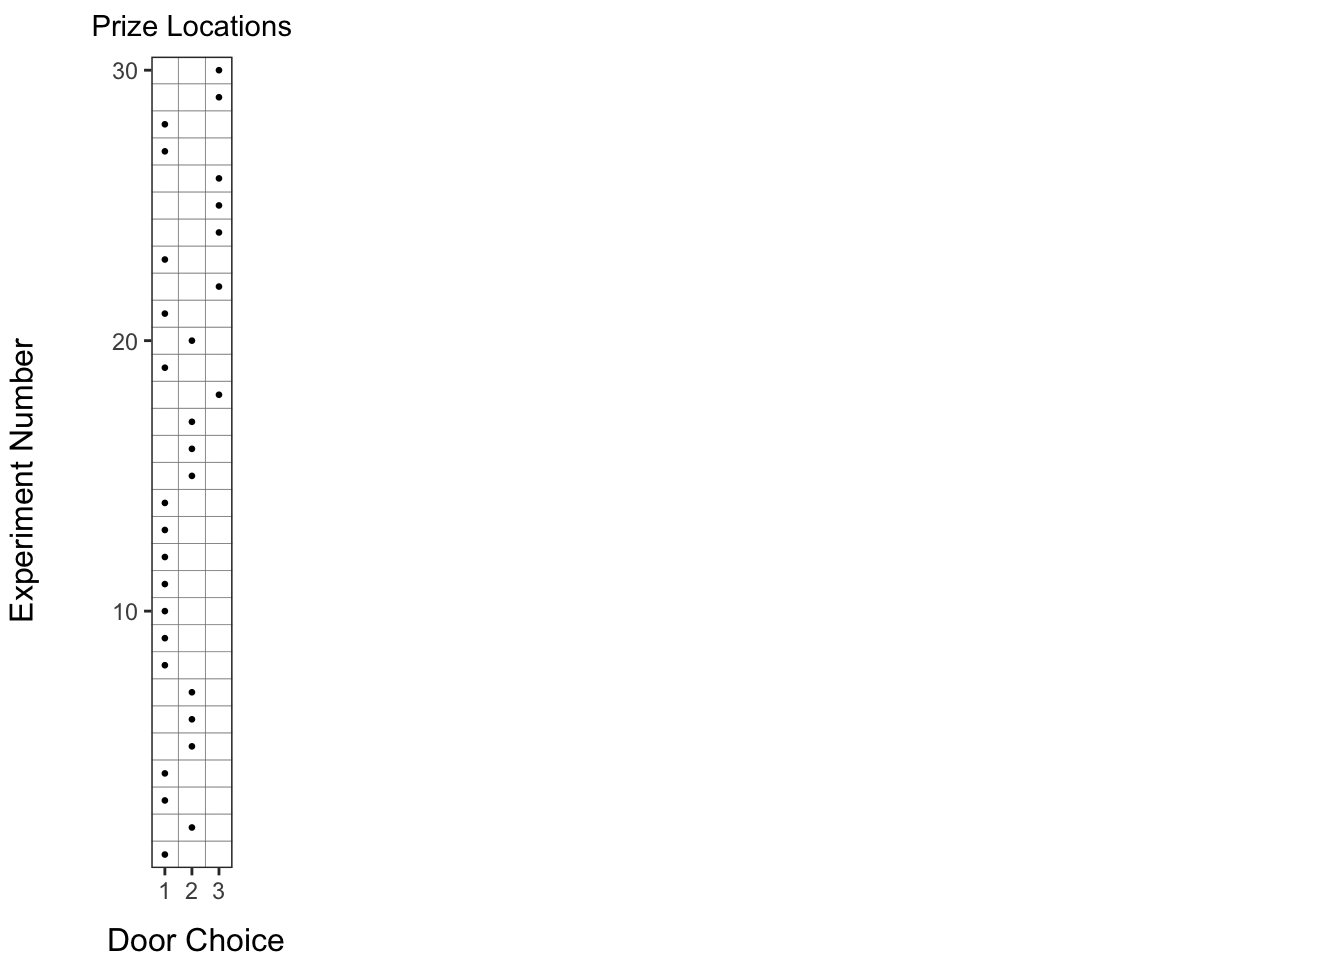
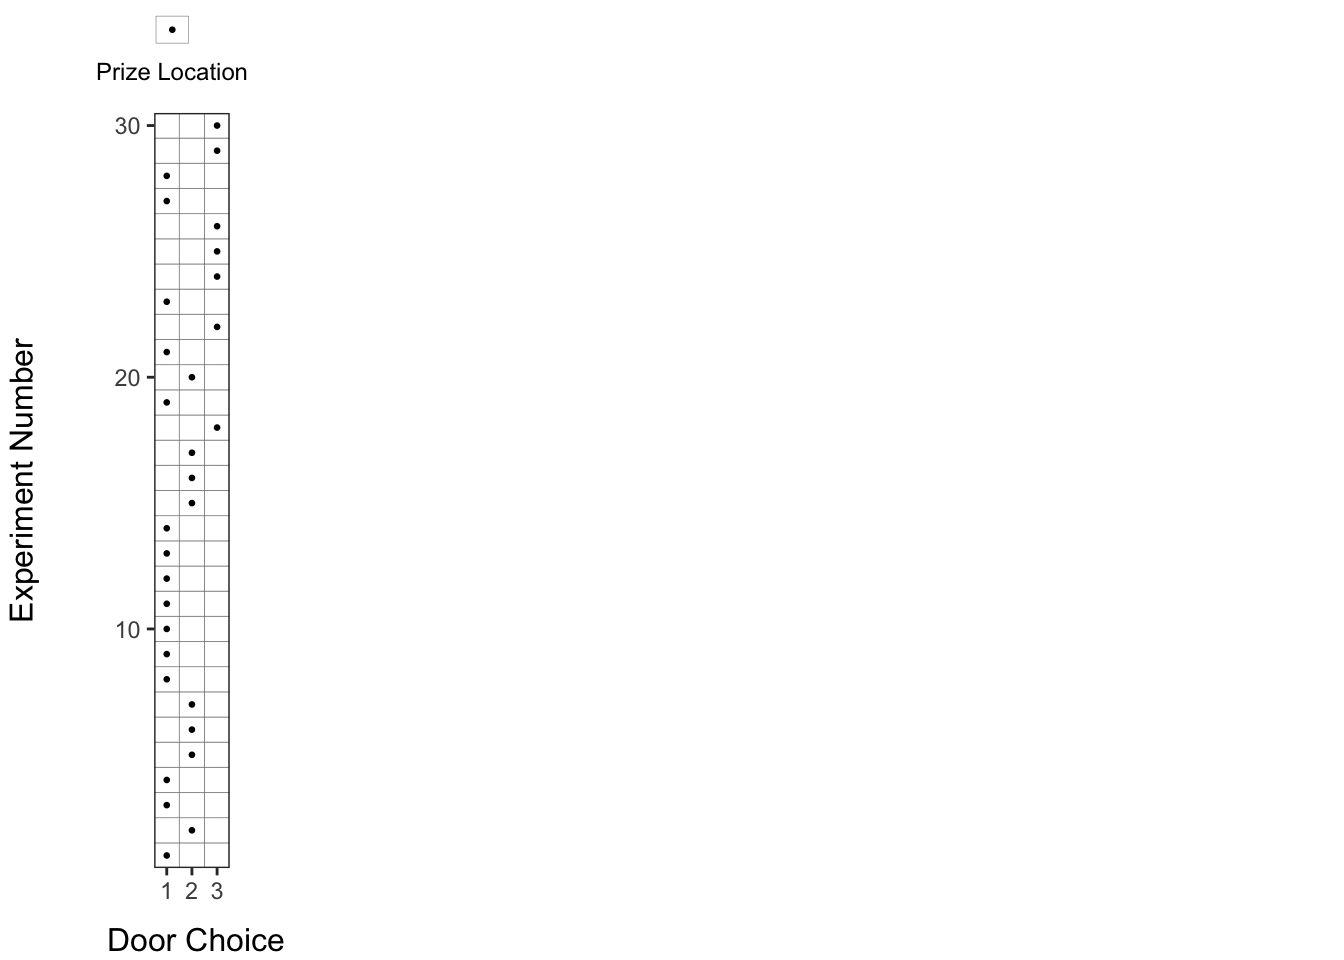
updating the monty hall post

Changed region(s): [[0.0625, 0.0, 0.2188, 0.9375]]

diff --git a/content/post/2018-11-18-monty-hall-problem.html b/content/post/2018-11-18-monty-hall-problem.html
@@ -33,7 +33,8 @@ math: TRUE
 n &lt;- 30
 
 # make a dataframe containing three columns called door1, door2, door3. 
-# Each row should contain two &quot;goat&quot;s and one &quot;car&quot;, randomly distributed among three columns
+# Each row should contain two &quot;goat&quot;s and one &quot;car&quot;, randomly distributed 
+# among three columns
 
 car_positions &lt;- sample(1:3,n,replace = TRUE)
 
@@ -55,8 +56,31 @@ df_experiment_runs$`Alternate Choice` &lt;- apply(
         sample(length(setdiff(1:3, c(x[&#39;Eliminated Position&#39;], x[&#39;First Choice&#39;]))), 1)]
 )
 
-df_experiment_runs_long &lt;- pivot_longer(df_experiment_runs, cols = starts_with(&quot;Door&quot;), names_to = &quot;Door&quot;)
-df_experiment_runs_long$Door &lt;- gsub(&#39;Door&#39;, &#39;&#39;, df_experiment_runs_long$Door)</code></pre>
+df_experiment_runs_long &lt;- pivot_longer(df_experiment_runs, 
+                                        cols = starts_with(&quot;Door&quot;), 
+                                        names_to = &quot;Door&quot;)
+df_experiment_runs_long$Door &lt;- gsub(&#39;Door&#39;, &#39;&#39;, df_experiment_runs_long$Door)
+
+df_legend &lt;- expand_grid(Choices = c(&quot;Prize Location&quot;, &quot;Original Choice&quot;, 
+                                     &quot;Winning Original Choice&quot;,
+                                     &quot;Eliminated Choice&quot;, &quot;Alternate Choice&quot;))
+df_legend$Choices &lt;- fct_inorder(df_legend$Choices)
+
+# Generate a plot to be used for the legend. 
+get_legend_plot &lt;- function(df){
+  ggplot(df, aes(x = Choices, fill = Choices, y = 1)) + 
+     geom_tile(color = &#39;gray50&#39;, width = 0.15, height = 1) + 
+     coord_cartesian(ylim = c(0, 2)) + 
+     facet_grid(~Choices, scales = &#39;free&#39;) +
+     geom_point(data = df %&gt;% filter(grepl(&quot;Prize Location|Winning&quot;, Choices)), size = 0.5) + 
+     scale_fill_manual(values = c(&#39;white&#39;, &#39;gray80&#39;, &#39;gray80&#39;, &#39;gray30&#39;, &#39;bisque&#39;)) + 
+     theme_void() + 
+
+     theme(legend.position = &#39;none&#39;,
+           axis.text.x = element_text(size = 9),
+           strip.text = element_blank()
+    )
+} </code></pre>
 <div id="prize-locations-chosen-at-random" class="section level4">
 <h4>1. Prize locations chosen at random:</h4>
 <p>First, let us denote the Prize Locations in each of the 30 runs by a <strong>dot (.)</strong>, which is chosen randomly among the 3 doors.</p>
@@ -71,10 +95,18 @@ df_experiment_runs_long$Door &lt;- gsub(&#39;Door&#39;, &#39;&#39;, df_experimen
             plot.subtitle = element_text(hjust = 0.5))
 
 p1 &lt;- p0 + geom_point(data = df_experiment_runs, aes(x = `Prize Location`), size = 0.5) + 
-        labs(subtitle = &#39;Prize Locations&#39;)
+       # labs(subtitle = &#39;Prize Locations&#39;) + 
+      NULL
 
 annotate_figure(
-  ggarrange(p1, NULL, NULL, NULL, NULL, nrow = 1, align = &#39;h&#39;),
+    ggarrange(
+      ggarrange(get_legend_plot(head(df_legend,1)), NULL, NULL, NULL, NULL, nrow = 1, align = &#39;h&#39;),
+      NULL,
+      ggarrange(p1, NULL, NULL, NULL, NULL, nrow = 1, align = &#39;h&#39;),
+      nrow = 3, heights = c(1, 0.2, 10)
+    ),
+# 
+#     ncol = 2, align = &#39;h&#39;
   left = text_grob(&quot;Experiment Number&quot;, rot = 90, size = 12),
   bottom = text_grob(&quot;Door Choice&quot;, size = 12, hjust = 0, x = 0.05)
 )</code></pre>
@@ -83,10 +115,17 @@ annotate_figure(
 <div id="original-door-choice-chosen-at-random" class="section level4">
 <h4>2. Original door choice chosen at random:</h4>
 <p>Then, let us show the original choice of the doors, denoted by gray square (◽), which are also shown at random.</p>
-<pre class="r"><code>p2 &lt;- p0 + geom_tile(data = df_experiment_runs, aes(x = `First Choice`), fill = &#39;gray80&#39;, color = &#39;gray40&#39;)+ 
-        labs(subtitle = &#39;Original Choice&#39;)
+<pre class="r"><code>p2 &lt;- p0 + geom_tile(data = df_experiment_runs, aes(x = `First Choice`), fill = &#39;gray80&#39;, color = &#39;gray40&#39;) #+ 
+       # labs(subtitle = &#39;Original Choice&#39;)
 annotate_figure(
-  ggarrange(p1, p2, NULL, NULL, NULL, nrow = 1, align = &#39;h&#39;),
+  # ggarrange(p1,     p2, get_legend_plot(head(df_legend,2)), NULL, NULL, nrow = 1, align = &#39;h&#39;),
+    ggarrange(
+
+    ggarrange(get_legend_plot(head(df_legend,2)), NULL, widths = c(0.4, 0.6), nrow = 1, align = &#39;h&#39;),
+    NULL,
+    ggarrange(p1, p2, NULL, NULL, NULL, nrow = 1, align = &#39;h&#39;),
+    nrow = 3, heights = c(1, 0.2, 10)
+  ),
   left = text_grob(&quot;Experiment Number&quot;, rot = 90, size = 12),
   bottom = text_grob(&quot;Door Choice&quot;, size = 12, hjust = 0, x = 0.15)
 )</code></pre>
@@ -97,11 +136,18 @@ annotate_figure(
 <p>When we combine the above two plots, we can see how many times we choose the door containing a prize indicated by a gray square with a dot in the picture below.</p>
 <p><code>Number of successes with original choice: number of gray squares with a dot</code>.</p>
 <p>In the plot below, we can say about 10 out of 30 trials result in a success where the prize location, is same as the original choice, as expected, with about 0.33 probability.</p>
-<pre class="r"><code>p3 &lt;- p2 + geom_point(data = df_experiment_runs, aes(x = `Prize Location`), size = 0.5) + 
-        labs(subtitle = &#39;Original Choice\n+\nPrize Location&#39;)
+<pre class="r"><code>p3 &lt;- p2 + geom_point(data = df_experiment_runs, aes(x = `Prize Location`), size = 0.5) #+ 
+        #labs(subtitle = &#39;Original Choice\n+\nPrize Location&#39;)
 
 annotate_figure(
-  ggarrange(p1, p2, p3, NULL, NULL, nrow = 1, align = &#39;h&#39;),
+  # ggarrange(p1, p2, p3, get_legend_plot(head(df_legend,3)), NULL, nrow = 1, align = &#39;h&#39;),
+  ggarrange(
+
+    ggarrange(get_legend_plot(head(df_legend,3)), NULL, widths = c(0.6, 0.4), nrow = 1, align = &#39;h&#39;),
+    NULL,
+    ggarrange(p1, p2, p3, NULL, NULL, nrow = 1, align = &#39;h&#39;),
+    nrow = 3, heights = c(1, 0.2, 10)
+  ),
   left = text_grob(&quot;Experiment Number&quot;, rot = 90, size = 12),
   bottom = text_grob(&quot;Door Choice&quot;, size = 12, hjust = 0, x = 0.25)
 )</code></pre>
@@ -110,10 +156,17 @@ annotate_figure(
 <div id="eliminating-one-of-the-doors-without-the-prize" class="section level4">
 <h4>4. Eliminating one of the doors without the prize:</h4>
 <p>At this point the host would eliminate one of the doors that don’t contain the prize. We denote this eliminated choice by black square (◾).</p>
-<pre class="r"><code>p4 &lt;- p3 + geom_tile(data = df_experiment_runs, aes(x = `Eliminated Position`), fill = &#39;gray30&#39;, color = &#39;gray40&#39;) + 
-        labs(subtitle = &#39;Original Choice\n+\nEliminated Choice&#39;)
+<pre class="r"><code>p4 &lt;- p3 + geom_tile(data = df_experiment_runs, aes(x = `Eliminated Position`), fill = &#39;gray30&#39;, color = &#39;gray40&#39;) #+ 
+        #labs(subtitle = &#39;Original Choice\n+\nEliminated Choice&#39;)
 annotate_figure(
-  ggarrange(p1, p2, p3, p4, NULL, nrow = 1, align = &#39;h&#39;),
+  # ggarrange(p1, p2, p3, p4, NULL, nrow = 1, align = &#39;h&#39;),
+  ggarrange(
+
+    ggarrange(get_legend_plot(head(df_legend,4)), NULL, widths = c(0.8, 0.2), nrow = 1, align = &#39;h&#39;),
+    NULL,
+    ggarrange(p1, p2, p3, p4, NULL, nrow = 1, align = &#39;h&#39;),
+    nrow = 3, heights = c(1, 0.2, 10)
+  ),
   left = text_grob(&quot;Experiment Number&quot;, rot = 90, size = 12),
   bottom = text_grob(&quot;Door Choice&quot;, size = 12, hjust = 0, x = 0.35)
 )</code></pre>
@@ -126,11 +179,18 @@ annotate_figure(
 <p>We can see that there about 20 orange squares with a dot in this experiment of 30 runs, which is about twice the probability of success compared to the original choice.</p>
 <pre class="r"><code>p5 &lt;- p0 + geom_tile(data = df_experiment_runs, aes(x = `Eliminated Position`), fill = &#39;gray30&#39;, color = &#39;gray40&#39;) + 
           geom_tile(data = df_experiment_runs, aes(x = `Alternate Choice`), fill = &#39;bisque&#39;, color = &#39;gray40&#39;) + 
-          geom_point(data = df_experiment_runs, aes(x = `Prize Location`), size = 0.5) + 
-          labs(subtitle = &#39;Alternate Chocie\n+\nPrize Location&#39;)
+          geom_point(data = df_experiment_runs, aes(x = `Prize Location`), size = 0.5) #+ 
+          #labs(subtitle = &#39;Alternate Chocie\n+\nPrize Location&#39;)
 
 annotate_figure(
-  ggarrange(p1, p2, p3, p4, p5, nrow = 1, align = &#39;h&#39;),
+  # ggarrange(p1, p2, p3, p4, p5, nrow = 1, align = &#39;h&#39;),
+  ggarrange(
+
+    get_legend_plot(head(df_legend,5)),
+    NULL,
+    ggarrange(p1, p2, p3, p4, p5, nrow = 1, align = &#39;h&#39;),
+    nrow = 3, heights = c(1, 0.2, 10)
+  ),
   left = text_grob(&quot;Experiment Number&quot;, rot = 90, size = 12),
   bottom = text_grob(&quot;Door Choice&quot;, size = 12, hjust = 0, x = 0.45)
 )</code></pre>
